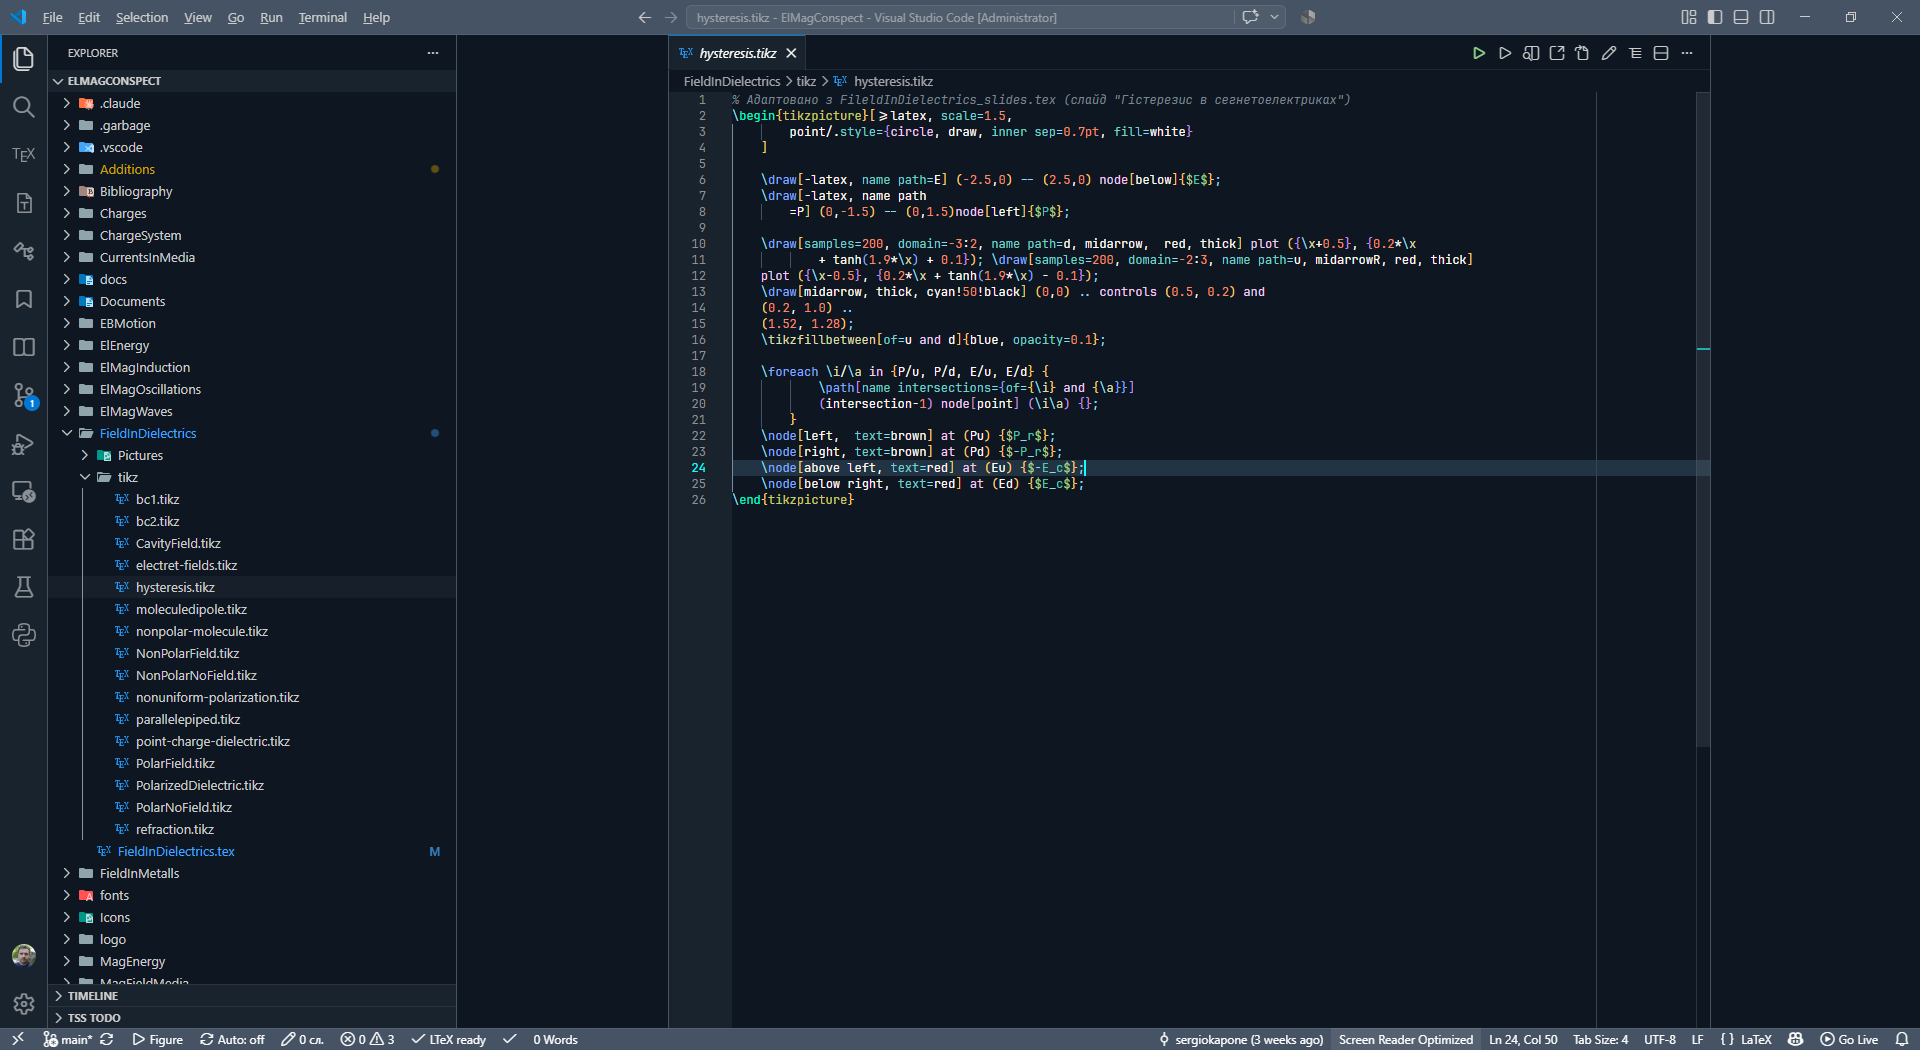
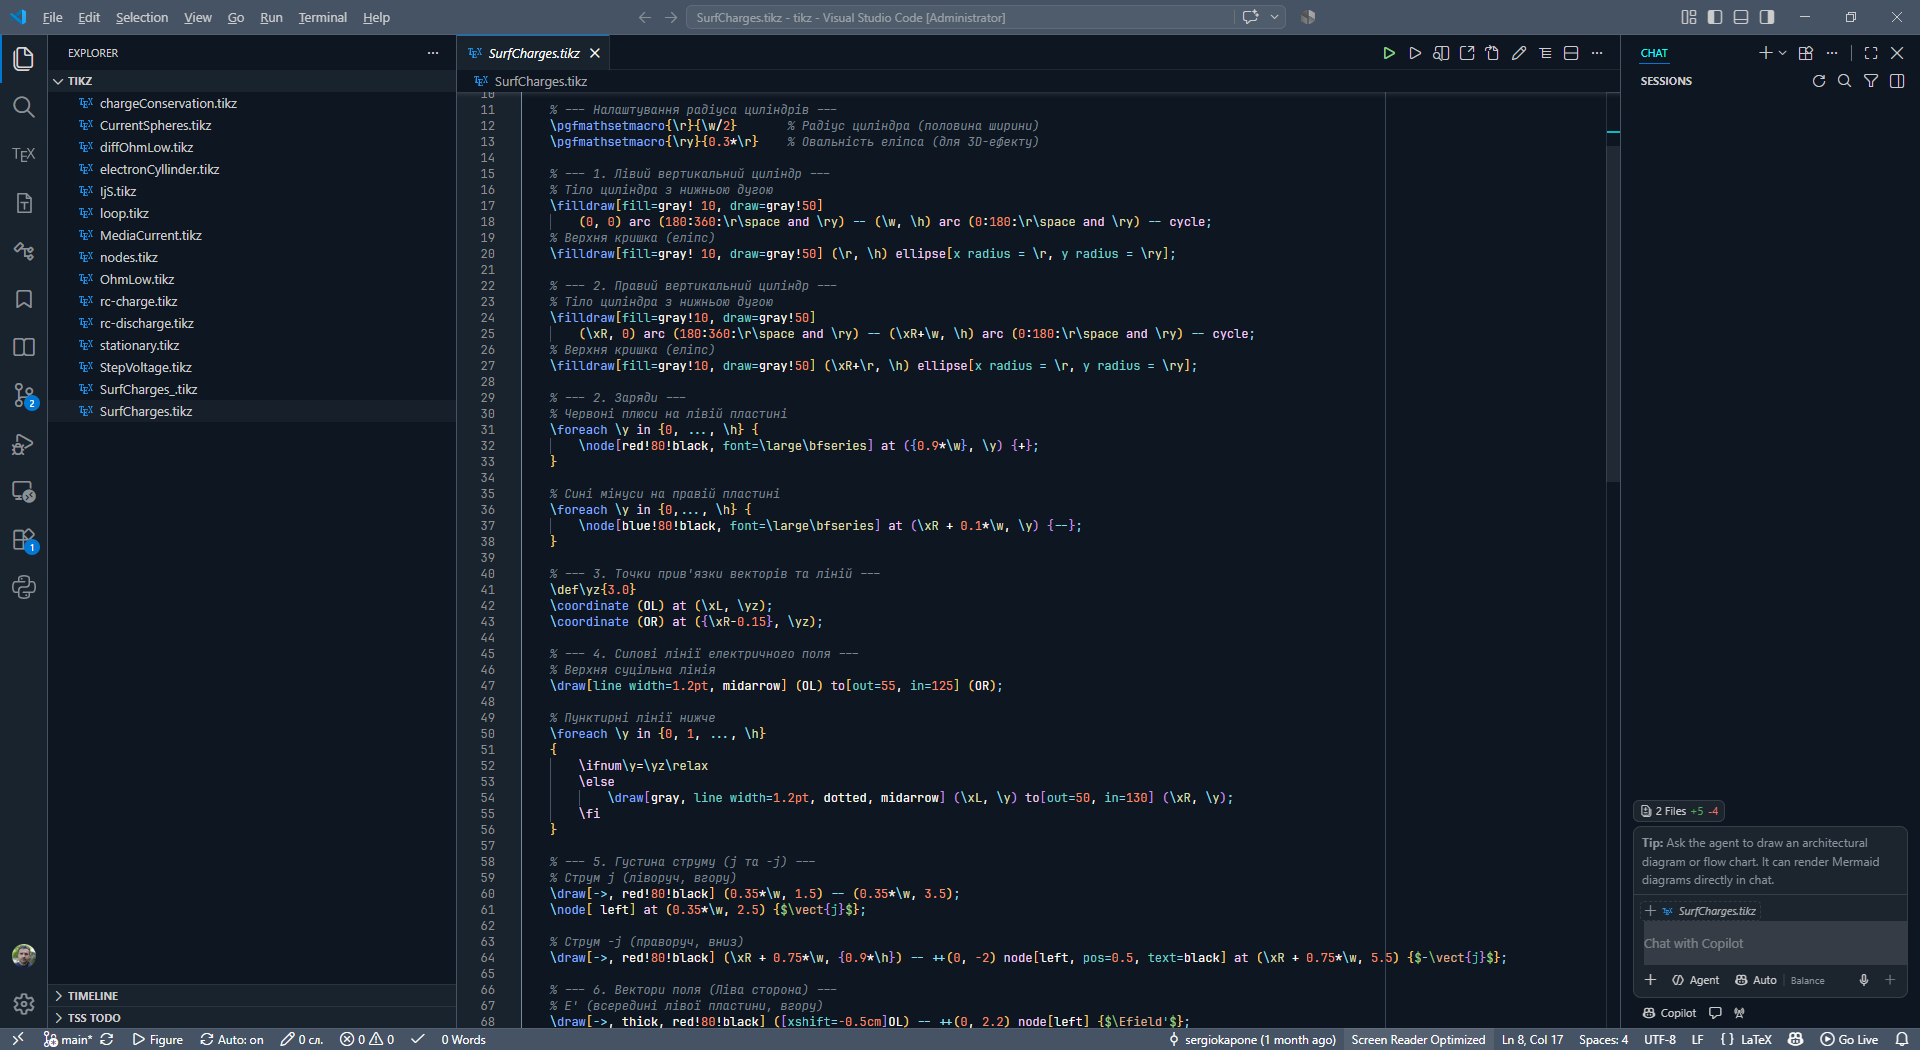
Unify syntax palette, update screenshots; 1.2.0
About 28 token colors reduced to 14 with matching saturation: purple
keywords, pink decorators, blue-gray comments, a single string green and
a single text color. Neon LaTeX and regex colors replaced.

diff --git a/CHANGELOG.md b/CHANGELOG.md
@@ -1,5 +1,15 @@
 # Changelog
 
+## 1.2.0
+
+- Unified syntax palette: about 28 token colors reduced to 14 with matching saturation.
+- Keywords (`if`, `for`, `def`, `return`) are now purple instead of pale pink and stand out from regular text.
+- Python decorators moved to pink so they don't clash with keywords.
+- Comments are blue-gray instead of green, so they no longer look like strings. Strings are a single green.
+- One text color: plain text and variables now share `#DCE3EA`.
+- LaTeX: `\begin`/`\end`/`\item` use the keyword color instead of neon cyan; math commands, labels and references use the shared palette.
+- Regular expressions: neon colors replaced with palette colors.
+
 ## 1.1.0
 
 - Explicit semantic token colors. Python colors no longer change once Pylance finishes loading: `self`/`cls` stay red (they used to turn orange), brackets stay cyan (they used to turn white).
